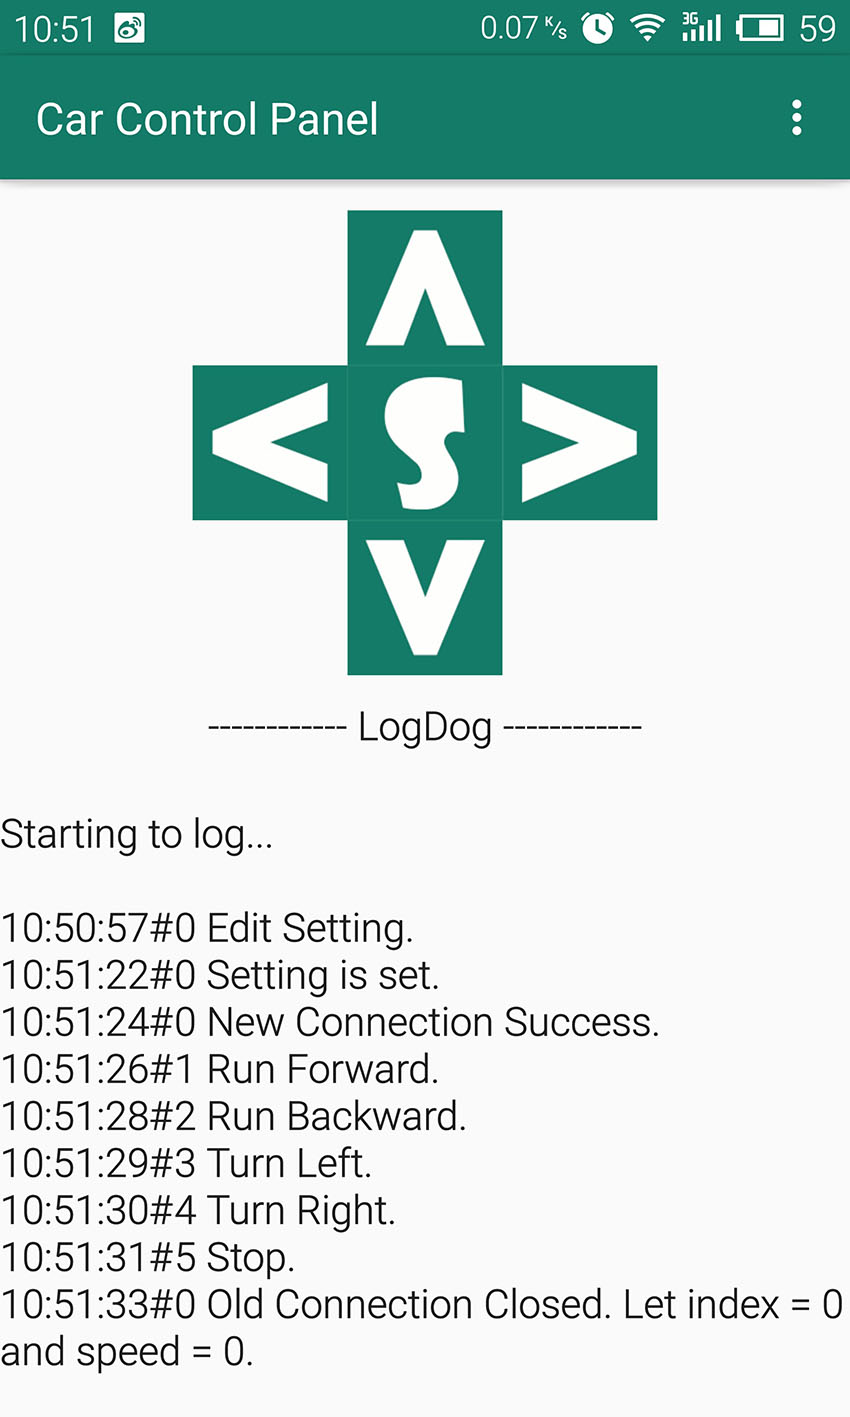
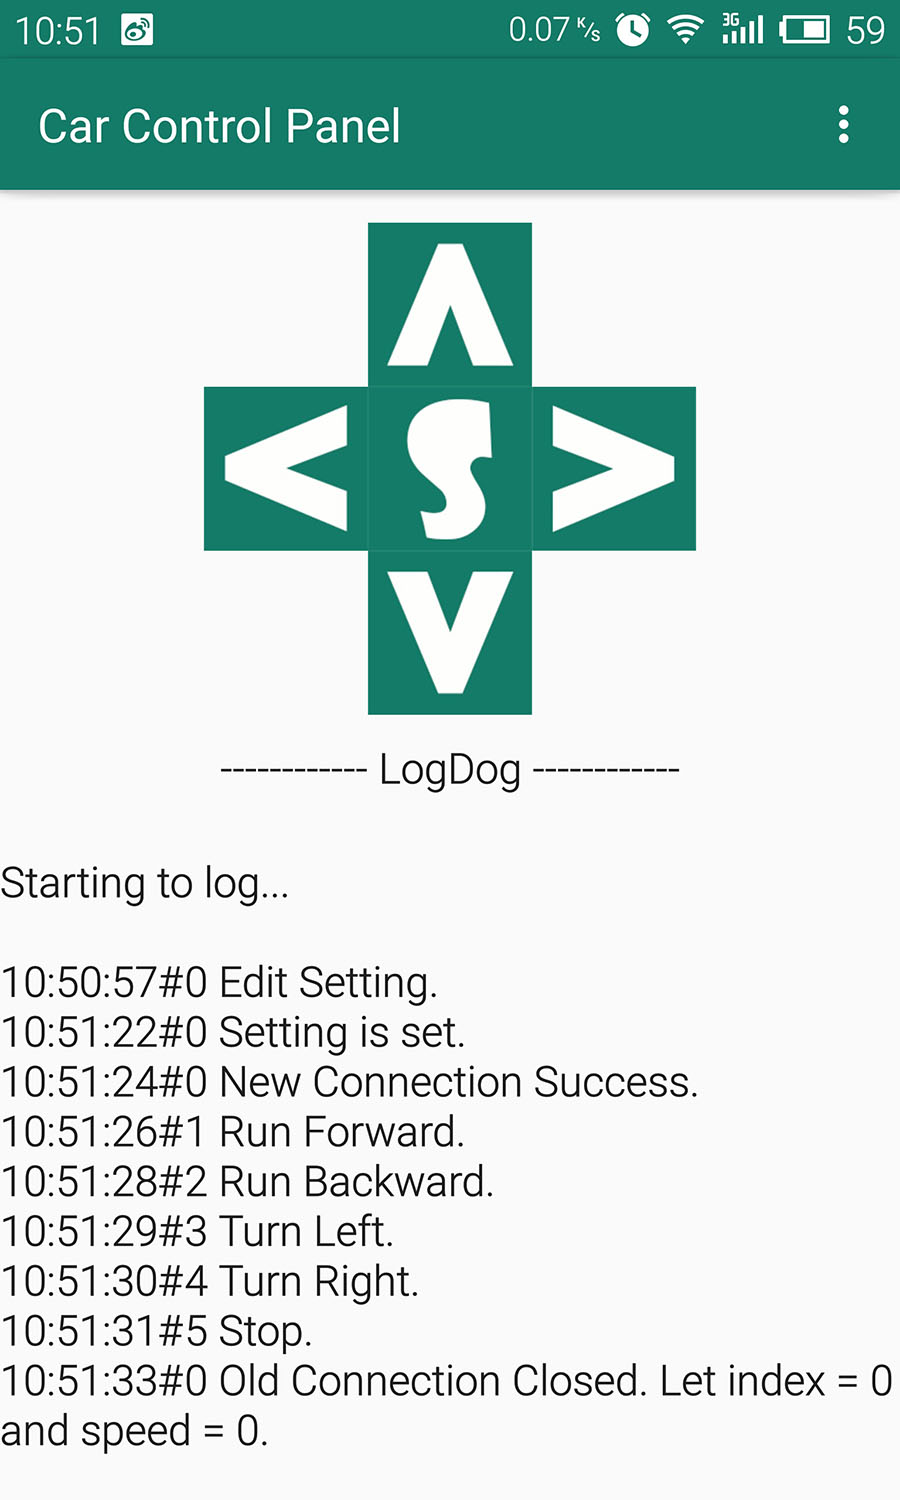
Change the shown size of the screen picture in screenshots folder

diff --git a/README.md b/README.md
@@ -1,3 +1,3 @@
 # CarCtrlPanel
 An Android APP to control a car. It is shown as:
-![image](https://github.com/xiehongfeng100/CarCtrlPanel/raw/master/screenshots/user-interface.jpg)
+![image](https://github.com/xiehongfeng100/CarCtrlPanel/raw/master/screenshots/user-interface.jpg =900x)
